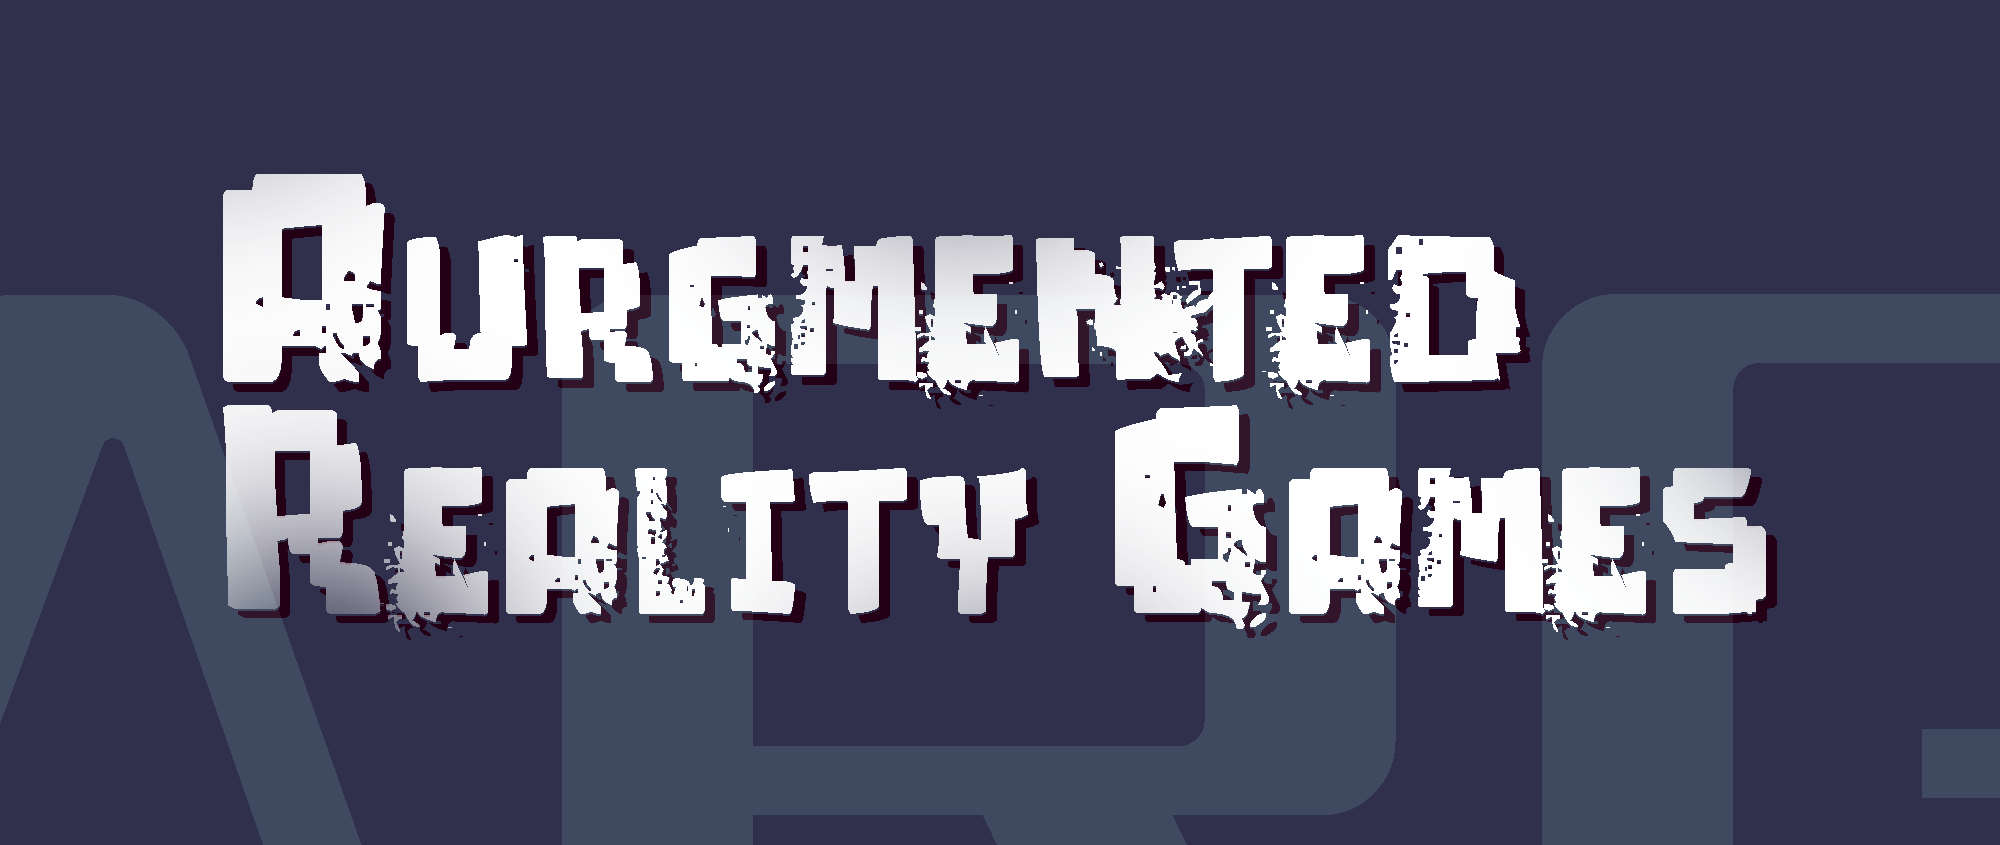
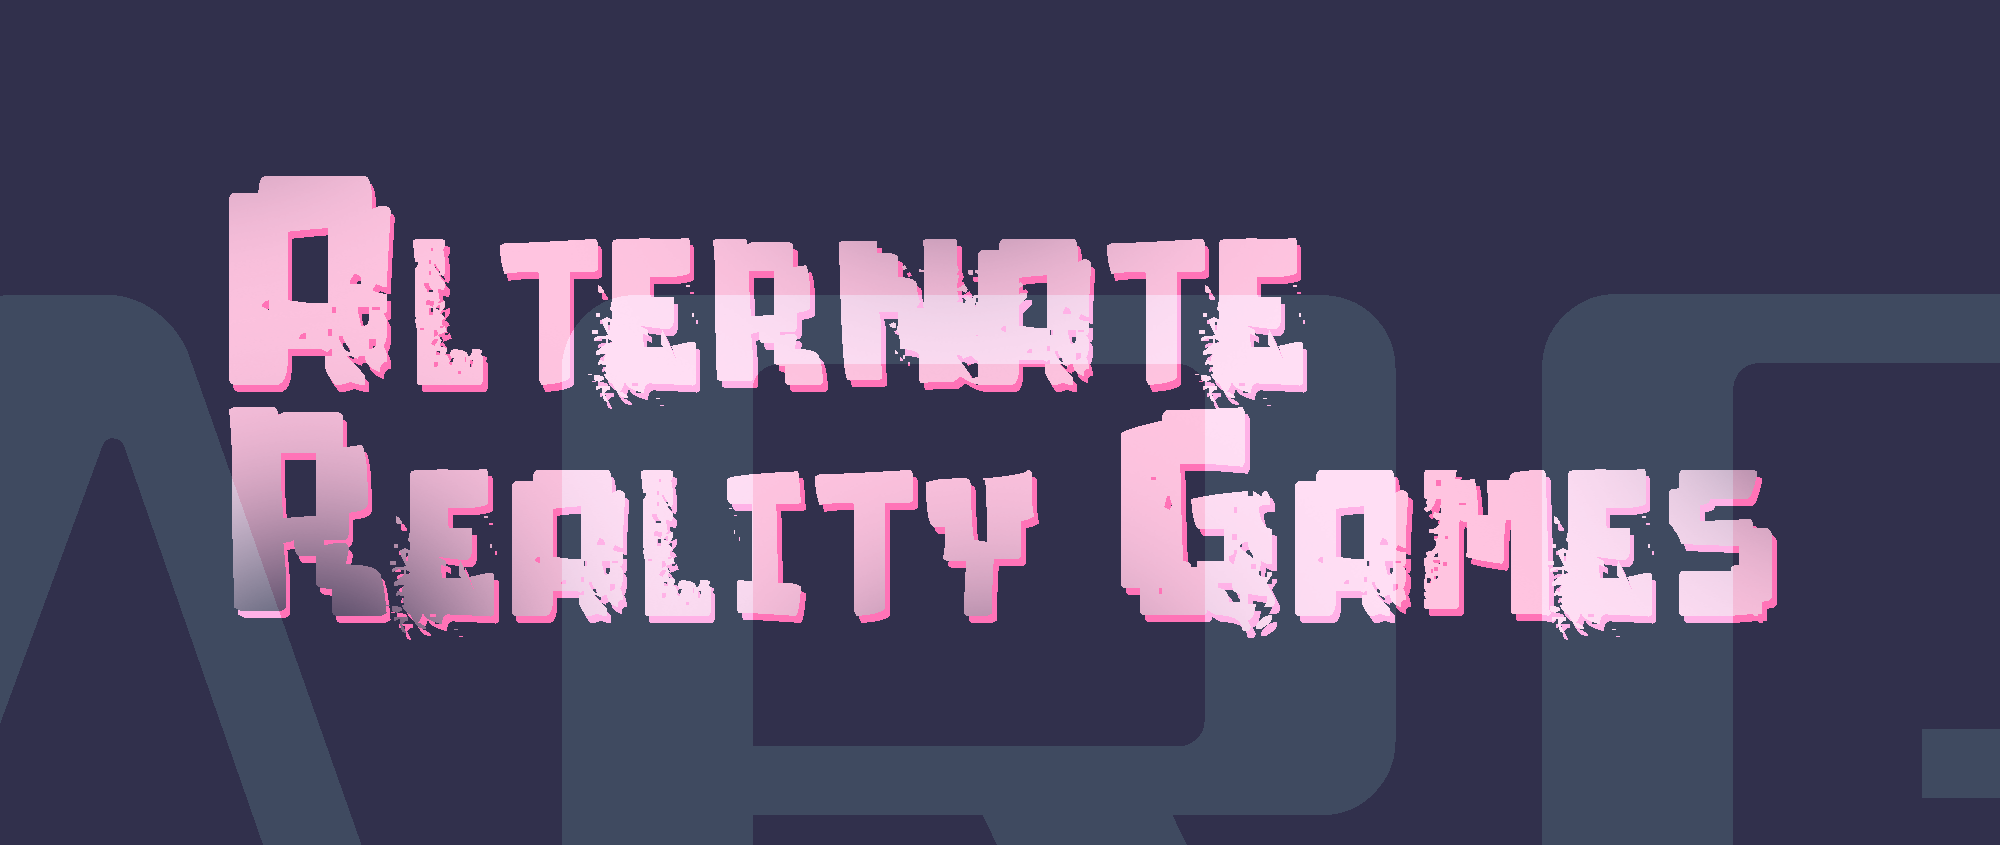
Update README.md
modified:   Images/ARG.png

Changed region(s): [[0.093, 0.1846, 0.899, 0.7692]]

diff --git a/README.md b/README.md
@@ -2,9 +2,9 @@
 
 This repo is maintained by [Nikucyan](https://github.com/Nikucyan) & [bdcformpara](https://github.com/bdcformpara).
 
-> This is an ARG list organizing some interesting ARGs (Alternate Reality Game) around the world. The main purpose is to study the game plays from various dev. groups. Some organizations and producers may be controversial, this document is for learning and exchange purposes only.
+> This is an ARG list collecting some interesting ARGs (Alternate Realsity Games) around the world. The main purpose is to study the game plays from various dev. groups. Some organizations and producers may be controversial, this document is for learning and exchange purposes only.
 
-The document `ARG-List.md` should be written in a standard markdown format.The main lang. is Chinese.
+The document `ARG-List.md` should be written in a standard markdown format. The main lang. is Chinese.
 
 
 ![Cover](https://cdn.jsdelivr.net/gh/Nikucyan/ARG/Images/ARG.png)
